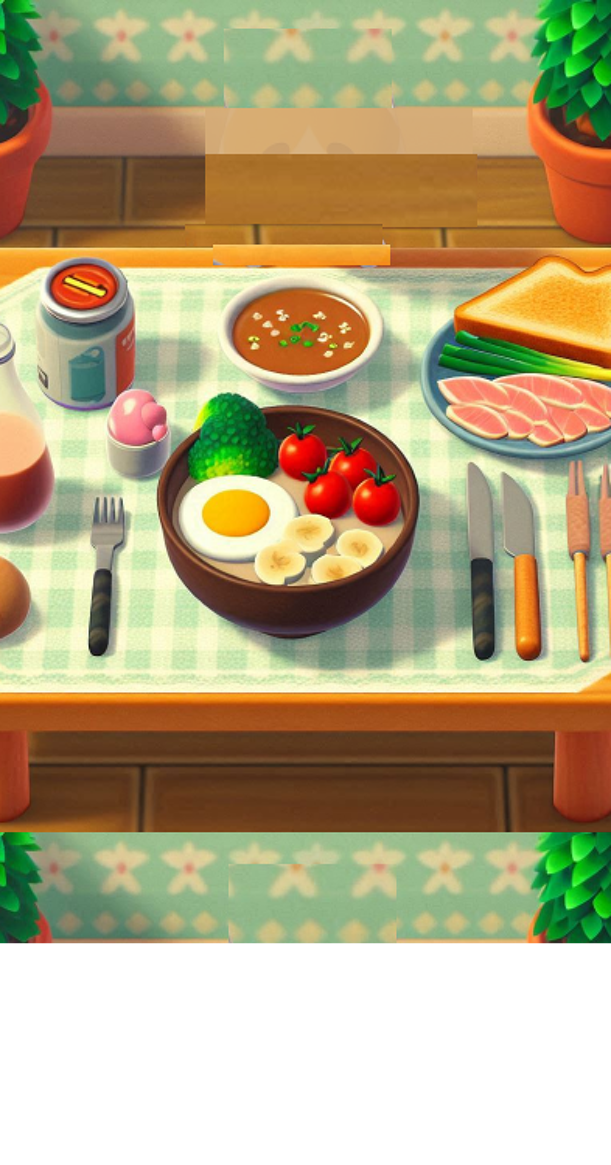
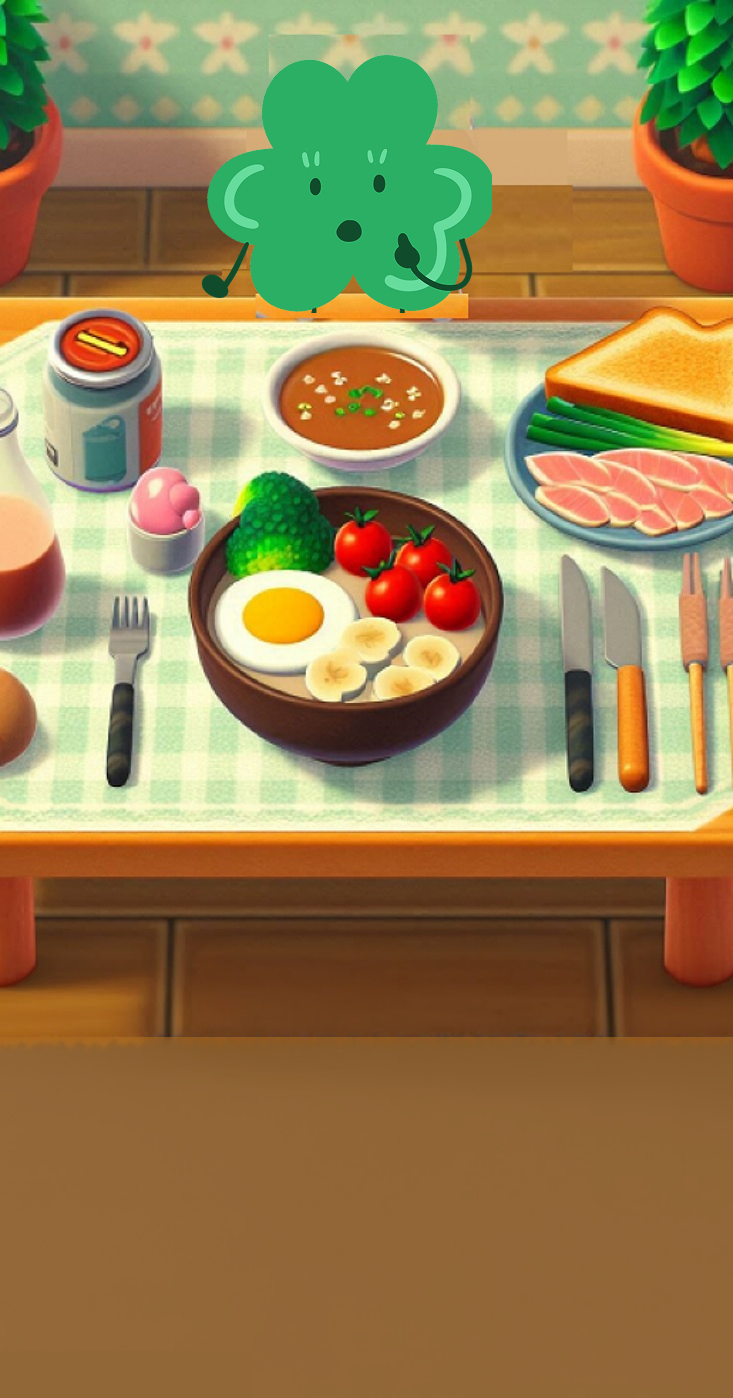
[Chore] 새로운 이미지 파일 추가 및 배경 이미지 변경

diff --git a/Frontend/src/screens/SimpleDiagnosis/simpleDiagnosisScript.ts b/Frontend/src/screens/SimpleDiagnosis/simpleDiagnosisScript.ts
@@ -66,14 +66,14 @@ export const SimpleDiagnosisScript = ({ nickname }: SimpleDiagnosisScriptProp): 
     {
       index: 3,
       type: "story",
-      backgroundImage: require("../../assets/Images/simple-3.png"),
+      backgroundImage: require("../../assets/Images/simple-3-1.png"),
       name: "세잎이",
       text: "(...끼익)\n어머 너 누구야?\n우리 어디서 본 적 있나?",
     },
     {
         index: 4,
         type: "options",
-        backgroundImage: require("../../assets/Images/simple-3.png"),
+        backgroundImage: require("../../assets/Images/simple-3-2.png"),
         options: [
           { text: "네", nextType: "navigate", navigateTo: { screen: "SignIn" } },
           { text: "아니요", nextType: "story", nextIndex: 6 },
@@ -94,7 +94,7 @@ export const SimpleDiagnosisScript = ({ nickname }: SimpleDiagnosisScriptProp): 
     {
       index: 7,
       type: "story",
-      backgroundImage: require("../../assets/Images/simple-3.png"),
+      backgroundImage: require("../../assets/Images/simple-3-1.png"),
       name: "세잎이",
       text: "들어와, 들어와!\n너 이름이 뭐니?",
     },
@@ -106,7 +106,7 @@ export const SimpleDiagnosisScript = ({ nickname }: SimpleDiagnosisScriptProp): 
     {
       index: 9,
       type: "story",
-      backgroundImage: require("../../assets/Images/simple-3.png"),
+      backgroundImage: require("../../assets/Images/simple-3-1.png"),
       name: "세잎이",
       text: `아 이름이 ${nickname}(이)구나!\n멋진 이름이야!\n너에 대해서 조금 더 알려줘!`,
     },
@@ -118,7 +118,7 @@ export const SimpleDiagnosisScript = ({ nickname }: SimpleDiagnosisScriptProp): 
     {
       index: 11,
       type: "story",
-      backgroundImage: require("../../assets/Images/simple-3.png"),
+      backgroundImage: require("../../assets/Images/simple-3-1.png"),
       name: "세잎이",
       text: "너가 다시 왔을 때 기억할 수 있게 다음 정보 입력해줄래?",
     },
@@ -130,21 +130,21 @@ export const SimpleDiagnosisScript = ({ nickname }: SimpleDiagnosisScriptProp): 
     {
       index: 13,
       type: "story",
-      backgroundImage: require("../../assets/Images/simple-4.jpeg"),
+      backgroundImage: require("../../assets/Images/simple-4-1.png"),
       name: "세잎이",
       text: "아하 그렇구나!\n여기 물!",
     },
     {
       index: 14,
       type: "story",
-      backgroundImage: require("../../assets/Images/simple-4.jpeg"),
+      backgroundImage: require("../../assets/Images/simple-4-1.png"),
       name: "세잎이",
       text: "근데 여기는 어쩌다가 오게 되었어?",
     },
     {
       index: 15,
       type: "options",
-      backgroundImage: require("../../assets/Images/simple-4.jpeg"),
+      backgroundImage: require("../../assets/Images/simple-4-2.png"),
       options: [
         { text: "나를 찾으러 왔어 ",nextType: "story", score: 0, nextIndex: 16 },
         { text: "사랑 찾아 왔어 💕",nextType: "story", score: 0, nextIndex: 16 },
@@ -154,21 +154,21 @@ export const SimpleDiagnosisScript = ({ nickname }: SimpleDiagnosisScriptProp): 
     {
       index: 16,
       type: "story",
-      backgroundImage: require("../../assets/Images/simple-4.jpeg"),
+      backgroundImage: require("../../assets/Images/simple-4-1.png"),
       name: "세잎이",
       text: "혼자 여행 다니는 거 정말 멋있다!\n낭만있구 대단해",
     },
     {
       index: 17,
       type: "story",
-      backgroundImage: require("../../assets/Images/simple-4.jpeg"),
+      backgroundImage: require("../../assets/Images/simple-4-1.png"),
       name: "세잎이",
       text: "여행 말고 요즘 관심있는 거 있어?",
     },
     {
       index: 18,
       type: "options",
-      backgroundImage: require("../../assets/Images/simple-4.jpeg"),
+      backgroundImage: require("../../assets/Images/simple-4-2.png"),
       options: [
         { text: "응!", nextType: "story",score: 0, nextIndex: 19 },
         { text: "아니, 그치만 새 관심사를 요즘 찾아가는 중이야", nextType: "story",score: 0, nextIndex: 21 },
@@ -183,28 +183,28 @@ export const SimpleDiagnosisScript = ({ nickname }: SimpleDiagnosisScriptProp): 
     {
       index: 20,
       type: "story",
-      backgroundImage: require("../../assets/Images/simple-4.jpeg"),
+      backgroundImage: require("../../assets/Images/simple-4-1.png"),
       name: "세잎이",
       text: "우와! 멋지다!\n나도 그거 좋아해!",
     },
     {
       index: 21,
       type: "story",
-      backgroundImage: require("../../assets/Images/simple-4.jpeg"),
+      backgroundImage: require("../../assets/Images/simple-4-1.png"),
       name: "세잎이",
       text: "좋다!\n지금 이 여행이 도움 됐으면 좋겠어!",
     },
     {
       index: 22,
       type: "story",
-      backgroundImage: require("../../assets/Images/simple-4.jpeg"),
+      backgroundImage: require("../../assets/Images/simple-4-1.png"),
       name: "세잎이",
       text: "그래, 그럴 때가 있지~",
     },
     {
         index: 23,
         type: "story",
-        backgroundImage: require("../../assets/Images/simple-4.jpeg"),
+        backgroundImage: require("../../assets/Images/simple-4-1.png"),
         name: "세잎이",
         text: "(꼬르륵..)\n나 지금 밥 먹으려고 했는데\n너도 먹고 갈래?",
       },
@@ -235,7 +235,7 @@ export const SimpleDiagnosisScript = ({ nickname }: SimpleDiagnosisScriptProp): 
     {
     index: 27,
     type: "story",
-    backgroundImage: require("../../assets/Images/simple-6.jpeg"),
+    backgroundImage: require("../../assets/Images/simple-6-1.png"),
     name: "세잎이",
     text: "(우르르 쾅쾅!!!!)\n비가 너무 많이 오는데 갈 수 있겟어?\n괜찮으면 오늘 하루 여기서 지내도 돼",
     },
@@ -251,7 +251,7 @@ export const SimpleDiagnosisScript = ({ nickname }: SimpleDiagnosisScriptProp): 
     {
     index: 29,
     type: "story",
-    backgroundImage: require("../../assets/Images/simple-7.jpeg"),
+    backgroundImage: require("../../assets/Images/simple-7-1.png"),
     name: "세잎이",
     text: "비오니까\n괜히 좀 가라앉는 기분이네,,",
     },
@@ -268,7 +268,7 @@ export const SimpleDiagnosisScript = ({ nickname }: SimpleDiagnosisScriptProp): 
     {
         index: 31,
         type: "story",
-        backgroundImage: require("../../assets/Images/simple-7.jpeg"),
+        backgroundImage: require("../../assets/Images/simple-7-1.png"),
         name: "세잎이",
         text: "분위기 띄울 겸\n같이 게임 한 판 할래??",
     },
@@ -280,14 +280,14 @@ export const SimpleDiagnosisScript = ({ nickname }: SimpleDiagnosisScriptProp): 
     {
         index: 33,
         type: "story",
-        backgroundImage: require("../../assets/Images/simple-7.jpeg"),
+        backgroundImage: require("../../assets/Images/simple-7-1.png"),
         name: "세잎이",
         text: "오 잘하는데?",
     },
     {
         index: 34,
         type: "story",
-        backgroundImage: require("../../assets/Images/simple-7.jpeg"),
+        backgroundImage: require("../../assets/Images/simple-7-1.png"),
         name: "세잎이",
         text: "(하암~)\n게임했더니 피곤하다!\n이만 자러 가자!",
     },
@@ -318,7 +318,7 @@ export const SimpleDiagnosisScript = ({ nickname }: SimpleDiagnosisScriptProp): 
     {
       index:38,
       type: "story",
-      backgroundImage: require("../../assets/Images/simple-10.jpeg"),
+      backgroundImage: require("../../assets/Images/simple-10-1.png"),
       name: "세잎이",
       text: "잘잤어?",
   },
@@ -335,7 +335,7 @@ export const SimpleDiagnosisScript = ({ nickname }: SimpleDiagnosisScriptProp): 
     {
         index:40,
         type: "story",
-        backgroundImage: require("../../assets/Images/simple-10.jpeg"),
+        backgroundImage: require("../../assets/Images/simple-10-1.png"),
         name: "세잎이",
         text: "그렇구나!\n나는 오늘 하루 너무 기대 돼\n너는 어때?",
     },
@@ -352,7 +352,7 @@ export const SimpleDiagnosisScript = ({ nickname }: SimpleDiagnosisScriptProp): 
     {
         index:42,
         type: "story",
-        backgroundImage: require("../../assets/Images/simple-10.jpeg"),
+        backgroundImage: require("../../assets/Images/simple-10-1.png"),
         name: "세잎이",
         text: "그렇구나!\n그럼 이제 다시 여행 떠나는 거야?",
     },

diff --git a/Frontend/src/screens/SignUp/SignUpStep3.tsx b/Frontend/src/screens/SignUp/SignUpStep3.tsx
@@ -56,7 +56,7 @@ const SignUpStep3 = () => {
         try {
             await AsyncStorage.setItem("@secondPassword", trimmedSecondPassword);
             await signUp(trimmedEmail, trimmedPassword, nickname, birthDate, gender);
-        navigation.navigate("SimpleDiagnosis", { initialIndex: 13 });
+            navigation.navigate("SimpleDiagnosis", { initialIndex: 13 });
         } catch (error) {
             console.error("회원가입 실패:", error);
             if ((error as any).response?.status === 400) {
@@ -70,7 +70,7 @@ const SignUpStep3 = () => {
 
     return (
         <ImageBackground
-            source={require("../../assets/Images/simple-3.png")}
+            source={require("../../assets/Images/simple-3-2.png")}
             style={{ flex: 1 }}
             resizeMode="cover"
         >

diff --git a/Frontend/src/screens/SignUp/SignUpStep2.tsx b/Frontend/src/screens/SignUp/SignUpStep2.tsx
@@ -69,7 +69,7 @@ const SignUpStep2 = () => {
         <KeyboardAvoidingView style={{ flex: 1 }} behavior={Platform.OS === "ios" ? "padding" : undefined}>
             <TouchableWithoutFeedback onPress={Keyboard.dismiss}>
                 <ImageBackground
-                    source={require("../../assets/Images/simple-3.png")}
+                    source={require("../../assets/Images/simple-3-2.png")}
                     style={{ flex: 1 }}
                     resizeMode="cover"
                 >

diff --git a/Frontend/src/screens/SignIn.tsx b/Frontend/src/screens/SignIn.tsx
@@ -63,7 +63,7 @@ const SignIn = () => {
         >
             <TouchableWithoutFeedback onPress={Keyboard.dismiss}>
                 <ImageBackground
-                    source={require("../assets/Images/simple-3.png")}
+                    source={require("../assets/Images/simple-3-2.png")}
                     style={{ flex: 1 }}
                     resizeMode="cover"
                 >

diff --git a/Frontend/src/screens/SignUp/SignUpStep1.tsx b/Frontend/src/screens/SignUp/SignUpStep1.tsx
@@ -27,7 +27,7 @@ const SignUpStep1 = () => {
 
         <TouchableWithoutFeedback onPress={Keyboard.dismiss}>
             <ImageBackground
-                source={require("../../assets/Images/simple-3.png")}
+                source={require("../../assets/Images/simple-3-2.png")}
                 style={{ flex: 1 }}
                 resizeMode="cover"
             >

diff --git a/Frontend/src/screens/SimpleDiagnosis/Interest.tsx b/Frontend/src/screens/SimpleDiagnosis/Interest.tsx
@@ -28,7 +28,7 @@ const Interest = () => {
 
         <TouchableWithoutFeedback onPress={Keyboard.dismiss}>
             <ImageBackground
-                source={require("../../assets/Images/simple-4.jpeg")}
+                source={require("../../assets/Images/simple-4-2.png")}
                 style={{ flex: 1 }}
                 resizeMode="cover"
             >
